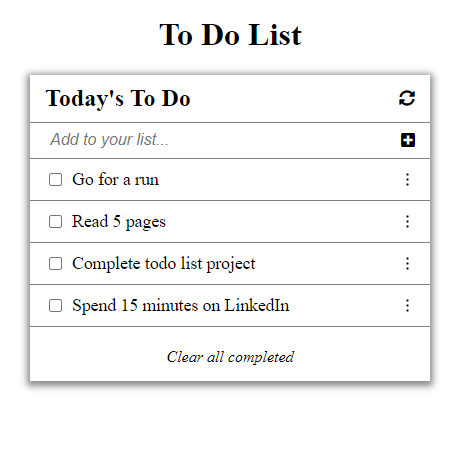
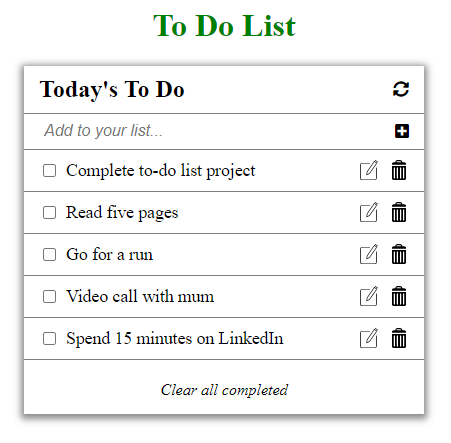
Fix errors spotted by linters

Changed region(s): [[0.031, 0.0293, 0.9623, 0.9684]]

diff --git a/src/index.js b/src/index.js
@@ -1,65 +1,17 @@
 /* eslint-disable no-unused-vars */
-
-//import _, { indexOf } from 'lodash';
 import './style.css';
+import { todoInput } from './modules/todoClass.js';
+import { renderToDo, newToDo, todoContainer } from './modules/renderTodo.js';
 
-
-import { todoInput } from './modules/todoClass';
-import { renderToDo, newToDo, todoContainer } from './modules/renderTodo';
-
-const trashImage = document.querySelectorAll('.trash-image');
-const dotsImage = document.querySelectorAll('.dots-image');
-//const todoContainer = document.querySelector('.todo-list');
-//const todoInput = document.querySelector('#add-todo-input');
-const plusIcon = document.querySelector('.plusIcon') 
-
-//let todoArray = localStorage.getItem('todoStorage') ? JSON.parse(localStorage.getItem('todoStorage')) : [];
+const plusIcon = document.querySelector('.plusIcon');
 
 function updateStorage() {
   newToDo.todoArray = newToDo.todoArray.filter((task, index) => {
     task.index = index + 1;
     return task;
-  })
+  });
   localStorage.setItem('todoStorage', JSON.stringify(newToDo.todoArray));
 }
-
-// function addToDo() {
-//   const todoId = todoArray.length;
-//   if (todoInput.value !== '') {
-//   todoArray.push(
-//       {
-//         description: todoInput.value,
-//         completed: false,
-//         index: todoId,
-//       }
-//     )
-//     todoInput.value = '';
-//   }
-// }
-
-// function renderToDo() {
-//   let todoHTML = '';
-//   todoArray.forEach((item) => {
-//   todoHTML+= 
-//     `
-//     <li class="list-item">
-//       <div class="checkAndText">
-//         <input id="${item.completed}" class="checkbox" type="checkbox" />
-//         <p class="todo-text">${item.description}</p>
-//       </div>
-//       <div class ="dots-and-trash">
-//         <img class="dots-image" src="${dotsIcon}" alt="three dots image" />
-//         <img class="trash-image" id="${item.index}" src="${trashIcon}" alt="three dots image" />
-//       </div>
-//     </li>
-//     `;
-//   });
-//   todoContainer.innerHTML = todoHTML;
-// }
-
-// function removeToDo(icon) {
-//   icon.parentNode.parentNode.remove();
-// }
 
 plusIcon.addEventListener('click', () => {
   newToDo.addToDo();
@@ -71,40 +23,37 @@ todoInput.addEventListener('keyup', (e) => {
   if (e.keyCode === 13) {
     plusIcon.click();
   }
-})
+});
 
 todoContainer.addEventListener('click', (event) => {
   const item = event.target;
   const itemIndex = item.id;
   const title = item.parentNode.parentNode.querySelector('.todo-text').textContent;
-  if (itemIndex !== '' && itemIndex !== "false" && itemIndex !== "true") {
-    newToDo.todoArray = newToDo.todoArray.filter(task => task.description !== title);
+  if (itemIndex !== '' && itemIndex !== 'false' && itemIndex !== 'true') {
+    newToDo.todoArray = newToDo.todoArray.filter((task) => task.description !== title);
     newToDo.removeToDo(item);
     updateStorage();
   }
 });
 
-
-todoContainer.addEventListener('click', event => {
+todoContainer.addEventListener('click', (event) => {
   const text = event.target;
-  const textParent = text.parentNode.parentNode
+  const textParent = text.parentNode.parentNode;
   const textEdit = textParent.querySelector('.todo-text');
-  if (text.className === "dots-image") {
+  if (text.className === 'dots-image') {
     const originalText = text.parentNode.parentNode.querySelector('.todo-text').innerHTML;
-    const index = newToDo.todoArray.map(task => task.description).indexOf(originalText);
+    const index = newToDo.todoArray.map((task) => task.description).indexOf(originalText);
     let updatedText = '';
     textEdit.contentEditable = true;
     textEdit.addEventListener('input', () => {
       updatedText = textEdit.innerHTML;
       if (updatedText !== originalText) {
         newToDo.todoArray[index].description = updatedText;
-        newToDo.todoArray = newToDo.todoArray.filter(task => {
-          return (task.id !== index)
-        });
+        newToDo.todoArray = newToDo.todoArray.filter((task) => (task.id !== index));
         updateStorage();
       }
-    })
+    });
   }
-})
+});
 
 renderToDo();

diff --git a/src/modules/renderTodo.js b/src/modules/renderTodo.js
@@ -2,6 +2,7 @@
 
 import TodoObject from './todoClass.js';
 import dotsIcon from '../imgDots.svg';
+import penIcon from '../imgPen.svg';
 import trashIcon from '../imgTrash.svg';
 
 export const newToDo = new TodoObject();
@@ -10,19 +11,19 @@ export const todoContainer = document.querySelector('.todo-list');
 export const renderToDo = () => {
   let todoHTML = '';
   newToDo.todoArray.forEach((item) => {
-  todoHTML+= 
-    `
+    todoHTML
+    += `
     <li class="list-item">
       <div class="checkAndText">
         <input id="${item.completed}" class="checkbox" type="checkbox" />
         <p class="todo-text">${item.description}</p>
       </div>
       <div class ="dots-and-trash">
-        <img class="dots-image" src="${dotsIcon}" alt="three dots image" />
+        <img class="dots-image" src="${penIcon}" alt="three dots image" />
         <img class="trash-image" id="${item.index}" src="${trashIcon}" alt="three dots image" />
       </div>
     </li>
     `;
   });
   todoContainer.innerHTML = todoHTML;
-}
+};

diff --git a/src/modules/todoClass.js b/src/modules/todoClass.js
@@ -2,9 +2,9 @@ export const todoInput = document.querySelector('#add-todo-input');
 
 export default class TodoObject {
   constructor() {
-    this.todoArray = localStorage.getItem('todoStorage') 
-    ? JSON.parse(localStorage.getItem('todoStorage')) 
-    : [];
+    this.todoArray = localStorage.getItem('todoStorage')
+      ? JSON.parse(localStorage.getItem('todoStorage'))
+      : [];
   }
 
   addToDo = () => {

diff --git a/src/style.css b/src/style.css
@@ -83,14 +83,19 @@ h1 {
   height: 20px;
 }
 
-/* .trash-image {
-  display: none;
-} */
-
 .show-icon {
   display: inline;
 }
 
 .hide-icon {
   display: none;
+}
+
+.dots-and-trash {
+  display: flex;
+  gap: 10px;
+}
+
+.todo-text[contentEditable="true"] {
+  border: none;
 }
